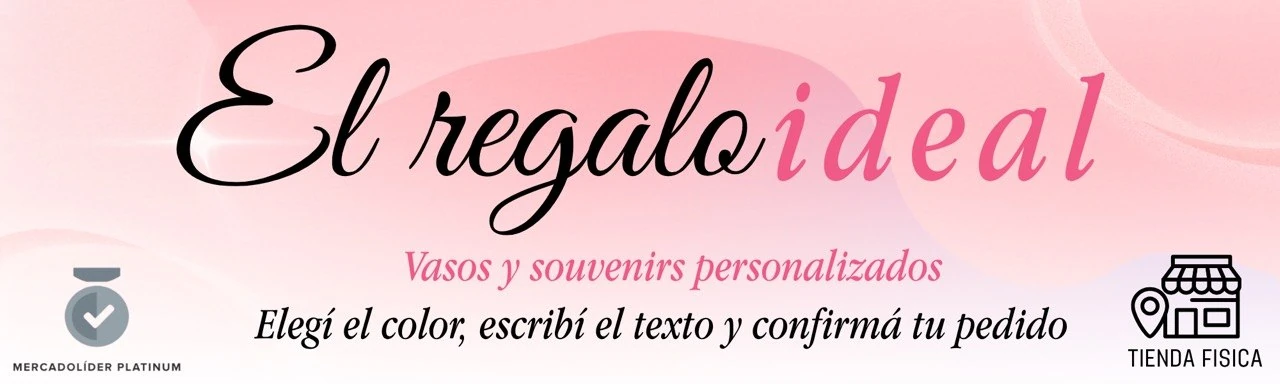
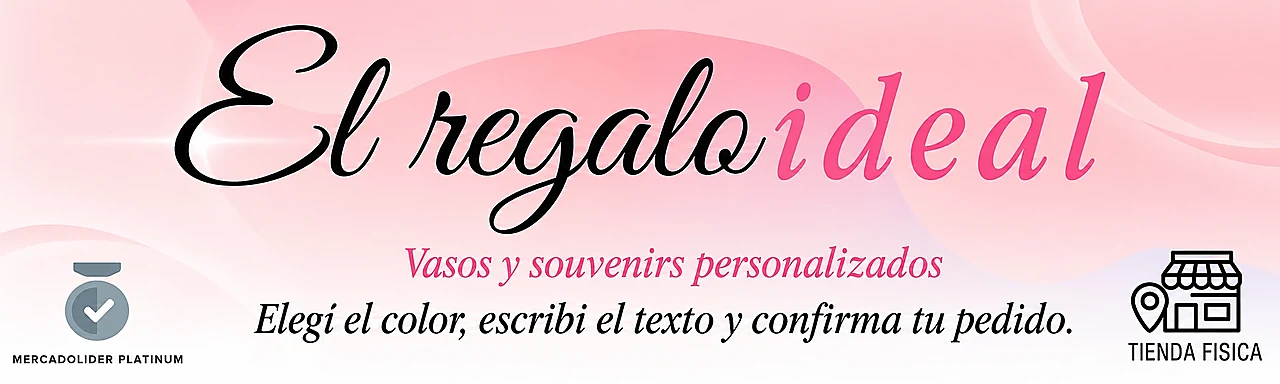
Hero: portada de ChatGPT re-escalada a alta definicion (1280/2560/3840)

diff --git a/index.html b/index.html
@@ -403,7 +403,7 @@
 </header>
 
 <div class="hero-wrap">
-  <img class="hero-video" src="assets/hero/portada.webp?v=2" srcset="assets/hero/portada.webp?v=2 1280w, assets/hero/portada@2x.webp?v=2 2560w, assets/hero/portada@3x.webp?v=2 3840w" sizes="100vw" alt="El regalo ideal: vasos y souvenirs personalizados con tu nombre" width="1280" height="384" fetchpriority="high" decoding="async">
+  <img class="hero-video" src="assets/hero/portada.webp?v=3" srcset="assets/hero/portada.webp?v=3 1280w, assets/hero/portada@2x.webp?v=3 2560w, assets/hero/portada@3x.webp?v=3 3840w" sizes="100vw" alt="El regalo ideal: vasos y souvenirs personalizados con tu nombre" width="1280" height="384" fetchpriority="high" decoding="async">
   <section class="hero" aria-labelledby="heroTitle">
     <h1 id="heroTitle" class="sr-only">El regalo <em>ideal</em>, con tu nombre.</h1>
     <p id="heroText" class="sr-only">Vasos y tazas personalizadas, cotillón y decoración. Elegí el color, escribí el texto y pedí por WhatsApp.</p>
